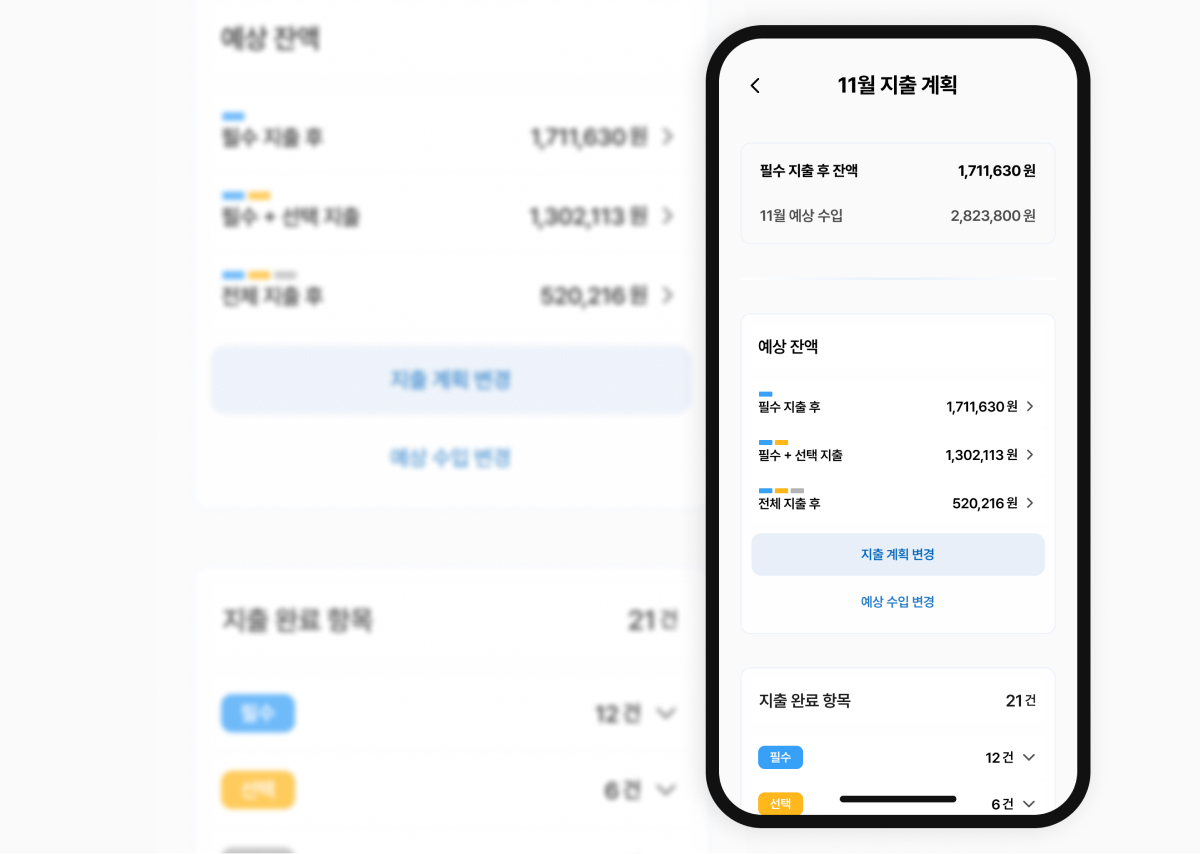
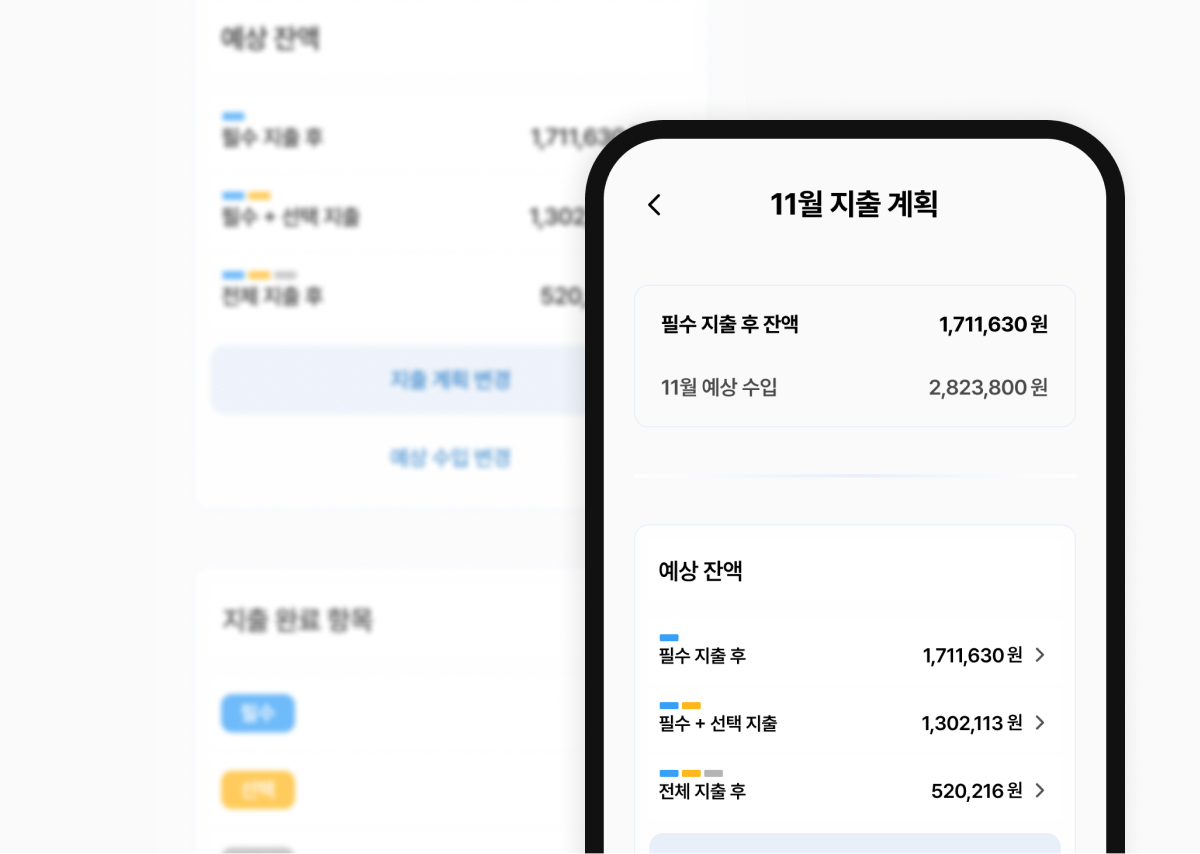
Add files via upload

diff --git a/index.html b/index.html
@@ -138,10 +138,10 @@
 
         <div class="project-content" data-aos="fade-up" data-aos-delay="100">
           <p class="project-name">CHAEUM Web/App Idea</p>
-          <h3 id="sidmool-title"><a href="assets/Portfolio_SIDMOOL_Kosoyoung.pdf" target="_blank" rel="noopener noreferrer">지출 전 탐색하는<br>나의 소비 항목<span class="sr-only"> — PDF, 새 탭에서 열기</span></a></h3>
-          <p class="project-description">지출된 항목을 관리하는 어플이 많은 대신, 실제 지출 전 항목을 정리함으로서 본인의 실제 필요한 소비가 무엇인지 파악하여 지출을 줄이는 습관 어플입니다.</p>
+          <h3 id="sidmool-title"><a href="https://songgul71.github.io/CHAEUM_APP/" target="_blank" rel="noopener noreferrer">소통을 넘어선 <br>재고 관리<span class="sr-only"> — PDF, 새 탭에서 열기</span></a></h3>
+          <p class="project-description">초보 사장님 및 원활한 매장 자동화를 꿈꾸는 사장님들을 위해 생각하게 된 재고 관리 어플입니다.</p>
           <ul class="project-tags" aria-label="담당 업무"><li>UX 설계</li><li>프로토 타입</li><li>바이브 코딩</li><li>UI 디자인</li></ul>
-          <a class="text-link" href="https://songgul71.github.io/Money_set/#/home?month=2026-11" target="_blank" rel="noopener noreferrer">프로토타입 자세히 보기 <span class="link-format">PDF</span><span class="arrow" aria-hidden="true">↗</span><span class="sr-only"> 새 탭에서 열기</span></a>
+          <a class="text-link" href="https://songgul71.github.io/CHAEUM_APP/" target="_blank" rel="noopener noreferrer">프로토타입 자세히 보기 <span class="link-format">PDF</span><span class="arrow" aria-hidden="true">↗</span><span class="sr-only"> 새 탭에서 열기</span></a>
         </div>
       </article>
 
